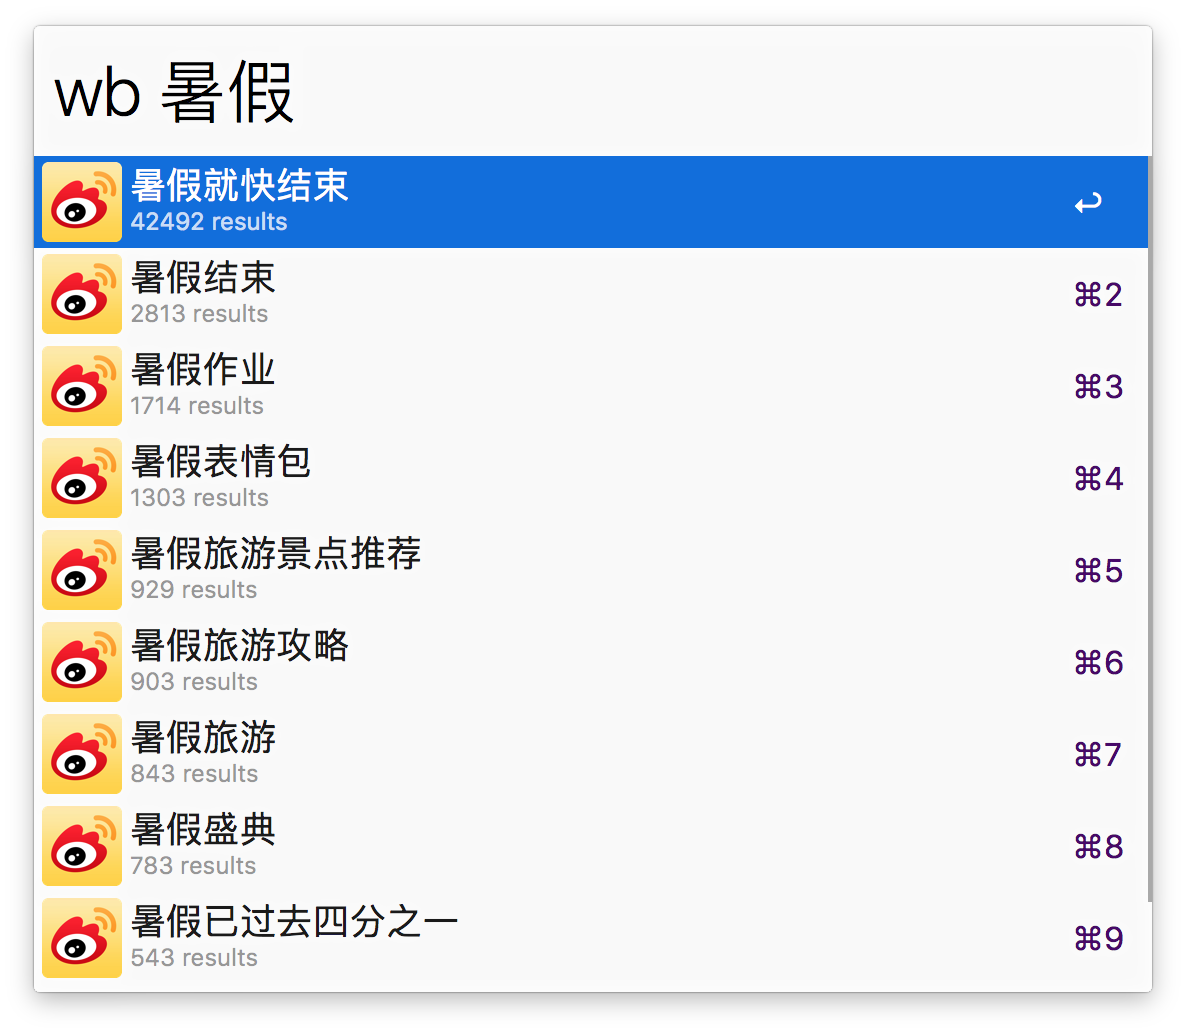
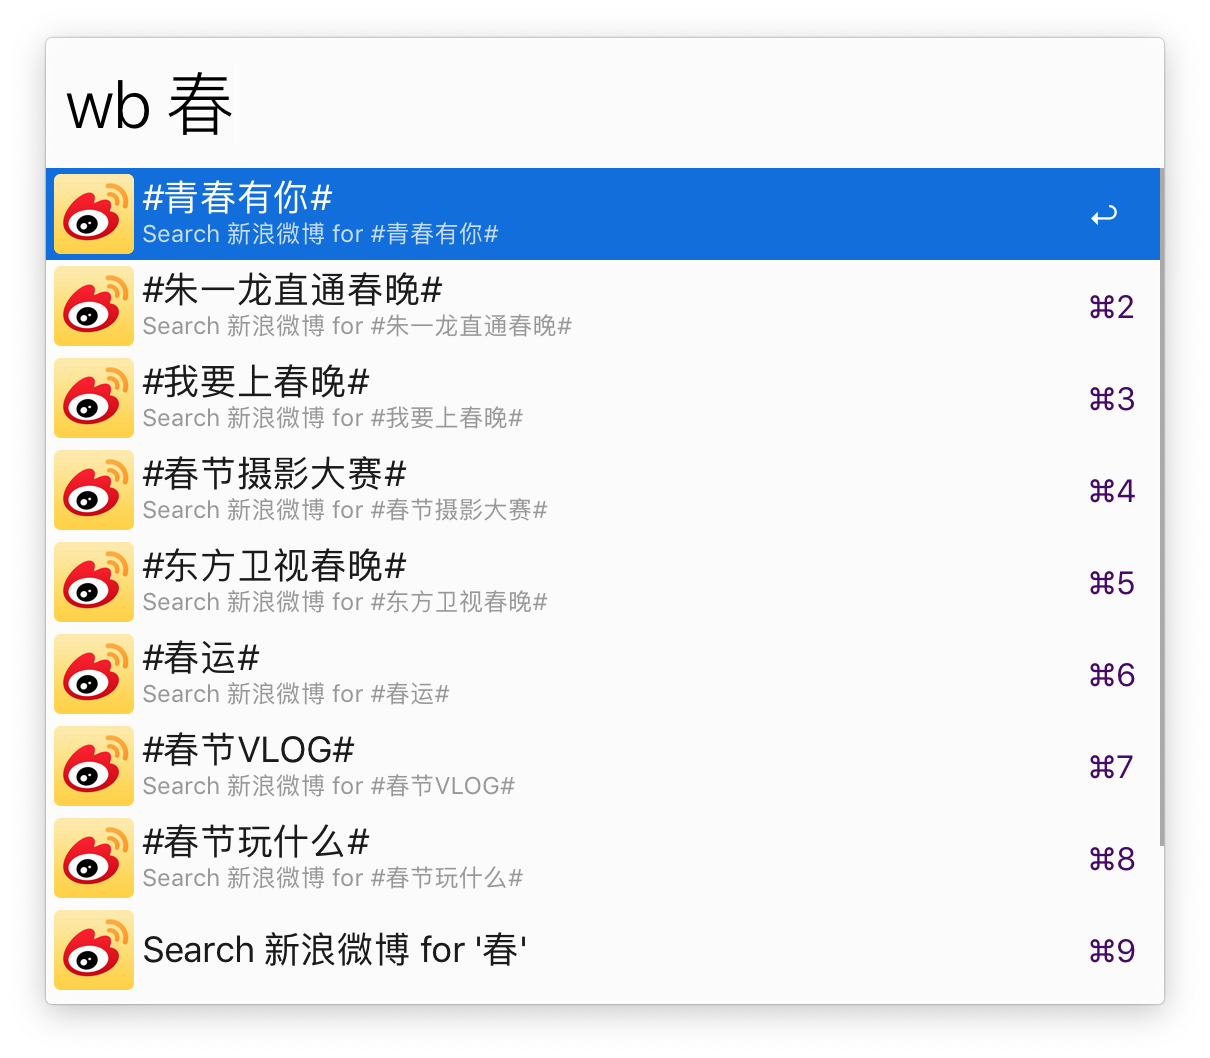
updated bilibili, Sina Weibo, Zhihu with latest API
fixed #12

Changed region(s): [[0.0, 0.0619, 0.9983, 0.9903]]

diff --git a/src/zhihu.php b/src/zhihu.php
@@ -4,60 +4,23 @@ use Alfred\Workflows\Workflow;
 require_once('vendor/joetannenbaum/alfred-workflow/Workflow.php');
 require_once('vendor/joetannenbaum/alfred-workflow/Result.php');
 require_once('util/request.php');
-require_once('util/download.php');
 
 const ICON = '861BE674-55FF-4779-A44A-A02FF66440B0.png';
 
 $wf = new Workflow;
 
-$download_dir = getenv('alfred_workflow_cache').'/zhihu';
-initDownloadDir(true);
+$response = request('https://www.zhihu.com/api/v4/search/suggest?q='.urlencode($query));
+$json = json_decode($response);
+$suggest = $json->suggest;
 
-$response = request('https://www.zhihu.com/autocomplete?token='.urlencode($query));
-$json = json_decode($response)[0];
-
-foreach ($json as $sugg) {
-    if (is_array($sugg)) {
-        $matched = true;
-        $type = $sugg[0];
-        $title = html_entity_decode($sugg[1], ENT_QUOTES | ENT_HTML5);
-        switch ($type) {
-            case 'topic':
-                $subtitle = '【话题】'.$sugg[6].' 个精选回答';
-                $arg = 'https://www.zhihu.com/'.$type.'/'.$sugg[2];
-                $icon = saveAndReturnFile(str_replace('_s', '_m', $sugg[3]));
-                break;
-            case 'people':
-                $subtitle = '【用户】'.html_entity_decode($sugg[5], ENT_QUOTES | ENT_HTML5);
-                $arg = 'https://www.zhihu.com/'.$type.'/'.$sugg[2];
-                $icon = saveAndReturnFile(str_replace('_s', '_m', $sugg[3]));
-                break;
-            case 'question':
-                $subtitle = '【问题】'.$sugg[4].' 个回答';
-                $arg = 'https://www.zhihu.com/'.$type.'/'.$sugg[3];
-                $icon = ICON;
-                break;
-            case 'article':
-                $subtitle = '【文章】'.$sugg[4].' 个赞';
-                $arg = 'https://zhuanlan.zhihu.com/p/'.$sugg[3];
-                $icon = ICON;
-                break;
-            default:
-                $matched = false;
-                break;
-        }
-
-        if ($matched) {
-            $wf->result()
-                ->title($title)
-                ->subtitle($subtitle)
-                ->arg($arg)
-                ->icon($icon)
-                ->autocomplete($title)
-                ->copy($title)
-                ->quicklookurl($arg);
-        }
-    }
+foreach ($suggest as $sugg) {
+    $query = $sugg->query;
+    $wf->result()
+        ->title($query)
+        ->subtitle('Search 知乎 for '.$query)
+        ->arg($query)
+        ->icon(ICON)
+        ->autocomplete($query);
 }
 
 echo $wf->output();

diff --git a/src/sinaweibo.php b/src/sinaweibo.php
@@ -9,19 +9,18 @@ const ICON = '66A123A9-2115-4480-BAA7-19F66300097C.png';
 
 $wf = new Workflow;
 
-$response = request('https://s.weibo.com/ajax/suggestion?where=gs_weibo&key='.urlencode($query));
+$response = request('https://s.weibo.com/Ajax_Search/suggest?key='.urlencode('#'.$query));
 $json = json_decode($response);
 $data = $json->data;
 
 foreach ($data as $sugg) {
-    $key = $sugg->key;
-    $count = $sugg->count;
+    $word = $sugg->word;
     $wf->result()
-        ->title($key)
-        ->subtitle($count.' results')
-        ->arg($key)
+        ->title($word)
+        ->subtitle('Search 新浪微博 for '.$word)
+        ->arg($word)
         ->icon(ICON)
-        ->autocomplete($key);
+        ->autocomplete($word);
 }
 
 echo $wf->output();

diff --git a/src/bilibili.php b/src/bilibili.php
@@ -9,7 +9,7 @@ const ICON = 'AE15F1F6-37B0-4A47-BEE1-975354A81227.png';
 
 $wf = new Workflow;
 
-$response = request('https://api.bilibili.cn/suggest?term='.urlencode($query));
+$response = request('https://s.search.bilibili.com/main/suggest?term='.urlencode($query));
 $json = json_decode($response, true);
 
 foreach ($json as $key => $value) {

diff --git a/README.md b/README.md
@@ -62,7 +62,7 @@ Support basic suggestions.
 
 ### Zhihu
 
-Support direct term suggestions and preview.
+Support basic suggestions.
 
 ![zhihu](screenshots/zhihu.png)
 
@@ -120,7 +120,7 @@ If you want an alternative to search exactly what you typed, you can add custom 
 * Baidu: `https://www.baidu.com/s?wd={query}`
 * Zhihu: `https://www.zhihu.com/search?q={query}`
 * bilibili: `https://search.bilibili.com/all?keyword={query}`
-* Sina Weibo: `https://s.weibo.com/weibo/{query}`
+* Sina Weibo: `https://s.weibo.com/weibo?q={query}`
 * Taobao: `https://s.taobao.com/search?q={query}`
 * JoyBuy: `https://search.jd.com/Search?enc=utf-8&keyword={query}`
 * Bangumi: `http://bangumi.tv/subject_search/{query}`
